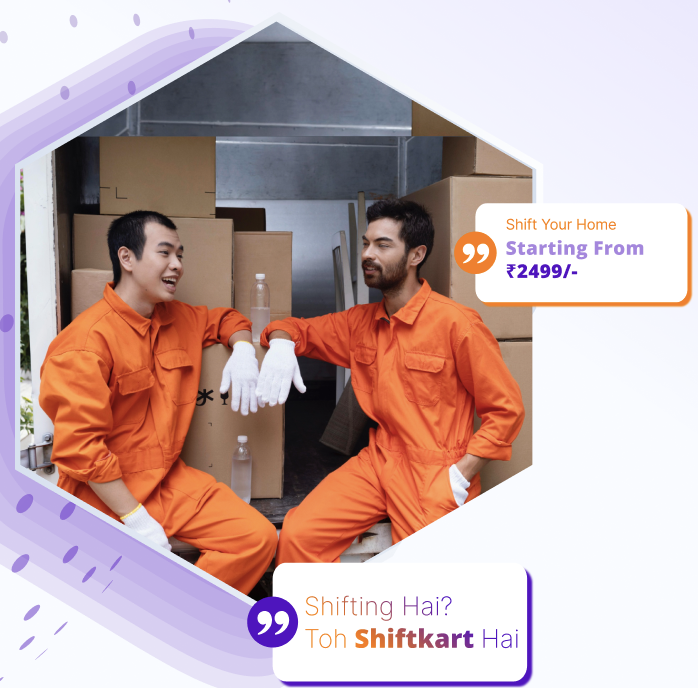
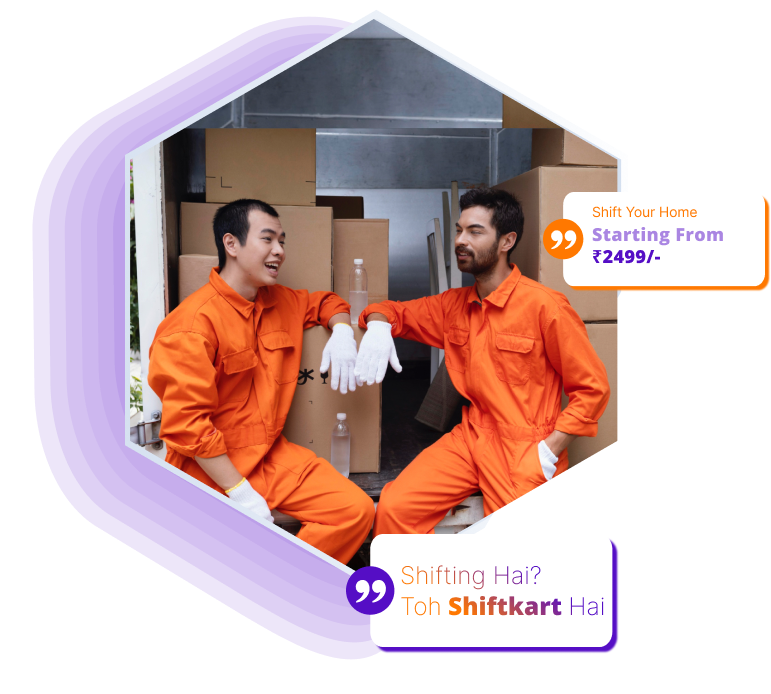
homeFix

diff --git a/src/pages/homePage/home.css b/src/pages/homePage/home.css
@@ -29,6 +29,11 @@
     text-align: center;
 }
 
+.landing-img {
+    width: 50rem;
+    margin-top: 10rem;
+    z-index: 3;
+}
 .home-relocate-wrapper{
     position: fixed;
     top: 10rem;
@@ -36,6 +41,8 @@
     z-index: 10;
 }
 /* service Containers */
+
+
 
 .section-container {
     position: relative;
@@ -64,20 +71,15 @@
 
 .img-left-sticky {
     position: absolute;
-    top: 12rem;
-    right: 76rem;
-    z-index: 0;
+    top: 0; 
+    left: 0;
+    z-index: 1;
 }
 .img-right-sticky {
     position: absolute;
     bottom: -4rem; 
     right: 0; 
     z-index: 0;
-}
-.landing-img {
-    width: 50rem;
-    margin-top: 10rem;
-    z-index: 3;
 }
 
 
@@ -148,15 +150,6 @@
     flex-direction: row;
     align-items: flex-start;
 }
-
- @media (max-width: 1440px) {
-    .landing-img {
-        width: 35rem;
-        margin-top: 17rem;
-        margin-right: 5rem;
-    }
-  }
-
   @media (max-width: 600px) {
     .home-landing-container{
         margin-top: -13rem;
@@ -176,10 +169,6 @@
     .container-item{
         width: 100%;
         margin-left: 0;
-    }
-    .landing-img {
-        width: 19rem;
-        margin-top: 20rem;
     }
     .services-row-one{
         gap: 2rem;
@@ -204,3 +193,50 @@
     }
     
   }
+
+  @media (max-width: 2000px) {
+    .home-relocate-wrapper{
+        right: 8rem;
+    }
+}
+
+@media (max-width: 1700px) {
+    .container-item {
+        margin-left: 5rem;
+    }
+    .home-relocate-wrapper{
+        right: 6rem;
+    }
+    .landing-img {
+        width: 45rem;
+    }
+}
+
+@media (max-width: 1400px) {
+    .container-item {
+        margin-left: 5rem;
+    }
+    .home-relocate-wrapper{
+        right: 4rem;
+    }
+}
+@media (max-width: 1300px) {
+    .container-item {
+        margin-left: 3rem;
+    }
+    .home-relocate-wrapper{
+        right: 3rem;
+    }
+}
+@media (max-width: 800px) {
+    .fillReq-requirements-wrapper{
+        flex-direction: column;
+    }.requirements-section-1 {
+        padding: 0 1rem 1rem;
+    }
+    .requirements-section-2 {
+        flex:1;
+        flex-direction: column;
+        width: 100%;
+    }
+}

diff --git a/src/components/header/header.css b/src/components/header/header.css
@@ -22,7 +22,6 @@
     width: 9rem;
     height: 4.6rem;
     cursor: pointer;
-    box-shadow: 5px 5px 5px 5px #550EC5;
 }
 .header-CTA-item{
     text-decoration: none;
